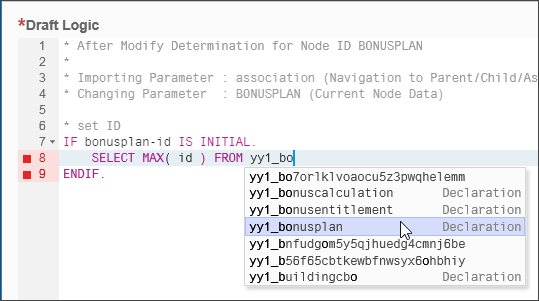
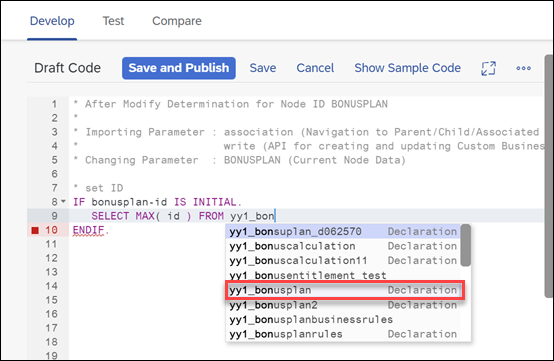
mahor updates to cbo logic

diff --git a/tutorials/abap-extensibility-cbo-logic/abap-extensibility-cbo-logic.md b/tutorials/abap-extensibility-cbo-logic/abap-extensibility-cbo-logic.md
@@ -2,19 +2,15 @@
 parser: v2
 auto_validation: true
 primary_tag: topic>abap-extensibility
-tags: [  tutorial>beginner, topic>abap-extensibility, topic>cloud, products>sap-s-4hana ]
+tags: [  tutorial>beginner, tutorial>license, topic>abap-extensibility, topic>cloud, products>sap-s-4hana ]
 time: 20
 ---
 
 # Implement Logic for a Custom Business Object
-<!-- description --> Control your custom business object application with ABAP logic
+<!-- description -->Control your custom business object application with ABAP logic
 
 ## Prerequisites  
-<<<<<<< HEAD
-- **Authorizations:** Your user needs a business role with business catalog **Extensibility** (ID: `SAP_CORE_BC_EXT`) in your **S/4HANA Cloud** system
-=======
 - **Authorizations:** Your user needs a business role with business catalog **Extensibility – Custom Business Objects** (ID: `SAP_CORE_BC_EXT_CBO`) and **Extensibility - Custom Logic** (ID: `SAP_CORE_BC_EXT_BLE`) in your **S/4HANA Cloud** system
->>>>>>> 59f95048a11e62962d5c8eb49e89b6f027533a25
 
 
 ## You will learn  
@@ -34,25 +30,31 @@ A several tutorials spanning example will show extensibility along custom Bonus 
 
 In the first parts a Manager wants to define business objects **Bonus Plan** for employees. A Bonus Plan is there to save employee specific rules for bonus entitlement.
 ## Additional Information
-- **SAP S/4HANA Cloud Release** (tutorial's last update): 1808
+- **SAP S/4HANA Cloud Release** (tutorial's last update): 2302
 
 ---
 ### Make key field Read-Only
 
 As there was no backend implementation to set the mandatory key field **`ID`** so far, we were forced to set it from the UI to be able to save instances. Now, as we will implement the logic to set the ID in backend and nowhere else, we will set that key field to Read-Only for the UI.
 
-1. Open the business object **Bonus Plan** in Custom Business Objects application
+1. Enter your SAP S/4HANA system's Fiori Launchpad.
 
-2. Start Edit Mode by executing the **Edit Draft** action.
+2. Start typing **Custom Business Objects** in the Launchpad search and open the App from the results.
 
-3. Switch to **Fields** section.
+    ![Custom Business Objects application from search results](FLP_search_resultCBO.png)
+    
+3. Select the business object **Bonus Plan** in Custom Business Objects application
+   
+4. Start Edit Mode by executing the **Edit Draft** action.
 
-4. **Check** the Read-Only box for key field **`ID`**.
+5. Switch to **Fields** section.
+
+6. **Check** the Read-Only box for key field **`ID`**.
 
     ![Check Read-Only box](CBO_checkReadOnly.png)
 
 
-### Enable logic implementation
+### Enable logic development
 
 
 1. Switch to **General Information** section.
@@ -63,109 +65,110 @@ As there was no backend implementation to set the mandatory key field **`ID`** s
 
 3. **Publish** the business object.
 
-Now you are enabled to implement **Determination** logic which is called **after each modification** to a Bonus Plan instance from the UI, as well as **Validation** logic which is called **before each save** of an instance.
-Only in Determination logic you are able to change custom business object data.
-Validation logic is intended to check the business object, decide whether a save can be performed and provide the end user a message with helpful information like successful save or the reason for which a save had to be rejected.  
+Now you are enabled to implement **Determination** logic which is called **after each modification** to a Bonus Plan instance from the UI, as well as **Validation** logic which is called **before each save** of an instance. Only in Determination logic you are able to change custom business object data. Validation logic is intended to check the business object, decide whether a save can be performed and provide the end user a message with helpful information like successful save or the reason for which a save had to be rejected.  
 
 
-### Start logic implementation
+### Implement After Modification logic
 
 For **published** Custom Business Objects **without a Draft version** you can implement logic.
 
 1. Switch to **Logic** section.
+   
     ![Switch to Logic section](CBO_LogicSection.png)
+
 2. Enter the After Modification Event Logic which is a Determination Logic.
+   
     ![Enter After Modification logic](CBO_go2AfterModify.png)
-3. In the logic view you initially see the not editable empty published version.
-Click the **Create Draft** action.
-    ![Create Draft of logic implementation](CBO_AfterModifyCreateDraft.png)
 
-An editable copy of the published version appears left to it. With the **Draft Version** and **Published Version** actions you can decide what coding to see.
+3. Being in the **Develop** section click **Edit** to change the currently published logic which is empty still.
 
-![View Draft and/or Published Version of logic](CBO_AfterModifyDraftOrPublishedVersion.png)
+    ![Create Draft of logic implementation](CBO_logicEdit.png)
 
+4. Determine and set static values:
 
-### Implement After Modification: fix values
+    - Set the key field `ID` if still initial.
 
-Implement After Modification event with following fix value functionality:
+        >**Hint:** Changing Parameter `bonusplan` enables you to read current node data and change it.
+        >
+        >**Hint:** You can read existing Bonus Plan data via the CDS View that is named as the Business Object's Identifier (here: `YY1_BONUSPLAN`).
+        >
+        >**Hint:** With the key combination **CTRL + Space** you can access the very helpful code completion.
+        >
+        >![Code Completion](CBO_logicCodeCompletion.png)
 
-- Set the key field `ID` if still initial.
+        ```ABAP
+        * set ID
+        IF bonusplan-id IS INITIAL.
+            SELECT MAX( id ) FROM yy1_bonusplan INTO @DATA(current_max_id).
+            bonusplan-id = current_max_id + 1.
+        ENDIF.
+        ```
 
-    >**Hint:** Changing Parameter `bonusplan` enables you to read current node data and change it.
-    >
-    **Hint:** You can read existing Bonus Plan data via the CDS View that is named as the Business Object's Identifier (here: `YY1_BONUSPLAN`).
-    >
-    **Hint:** With the key combination **CTRL + Space** you can access the very helpful code completion.
+    - Set the Unit of Measure for the Bonus Percentages to `P1` which is the code for % (percent)
 
-    ![Code Completion](CBO_logicCodeCompletion.png)
+        ```ABAP
+        * set percentage unit
+        bonusplan-lowbonuspercentage_u = bonusplan-highbonuspercentage_u = 'P1'.
+        ```
 
-    <br><br>
+    - Set the Employee Name from the Employee ID
+        >**Hint:** Extensibility offers Helper class `CL_ABAP_CONTEXT_INFO` with method `GET_USER_FORMATTED_NAME` that needs a user ID to return its formatted name
 
-    ```ABAP
-    * set ID
-    IF bonusplan-id IS INITIAL.
-       SELECT MAX( id ) FROM yy1_bonusplan INTO @DATA(current_max_id).
-       bonusplan-id = current_max_id + 1.
-    ENDIF.
-    ```
+        ```ABAP
+        * set Employee Name
+        IF bonusplan-employeeid IS NOT INITIAL.
+            bonusplan-employeename = cl_abap_context_info=>get_user_formatted_name( bonusplan-employeeid ).
+        ENDIF.
+        ```
 
-- Set the Unit of Measure for the Bonus Percentages to `P1` which is the code for % (percent)
+5. Check user input to determine the `isconsistent` property.
 
-    ```ABAP
-    * set percentage unit
-    bonusplan-lowbonuspercentage_u = bonusplan-highbonuspercentage_u = 'P1'.
-    ```
+    - Check that `ValidityStartDate` and `ValidityEndDate` are set and that `ValidityStartDate` is earlier in time than `ValidityEndDate`.
 
-- Determine and set the Employee Name from the Employee ID
-    >**Hint:** Extensibility offers Helper class `CL_ABAP_CONTEXT_INFO` with method `GET_USER_FORMATTED_NAME` that needs a user ID to return its formatted name
+    - Check that Factors and Percentages are set correctly (all > 0, Percentages < 100, `LowBonusAssignmentFactor` < `HighBonusAssignmentFactor`)
 
-    ```ABAP
-    * set Employee Name
-    IF bonusplan-employeeid IS NOT INITIAL.
-       bonusplan-employeename = cl_abap_context_info=>get_user_formatted_name( bonusplan-employeeid ).
-    ENDIF.
-    ```
+    - Check that Employee ID is set
 
+        ```ABAP
+        * consistency check START
+        IF bonusplan-validitystartdate IS INITIAL
+        OR bonusplan-validityenddate IS INITIAL
+        OR bonusplan-validitystartdate GE bonusplan-validityenddate
+        OR bonusplan-lowbonusassignmentfactor IS INITIAL
+        OR bonusplan-highbonusassignmentfactor IS INITIAL
+        OR bonusplan-lowbonuspercentage_v IS INITIAL
+        OR bonusplan-highbonuspercentage_v IS INITIAL
+        OR bonusplan-lowbonuspercentage_v GE 100
+        OR bonusplan-highbonuspercentage_v GE 100
+        OR bonusplan-lowbonusassignmentfactor GE bonusplan-highbonusassignmentfactor
+        OR bonusplan-employeeid IS INITIAL.
+            bonusplan-isconsistent = abap_false.
+        ELSE.
+            bonusplan-isconsistent = abap_true.
+        ENDIF.
+        * consistency check END
+        ```
 
-### Implement After Modification: consistency check
+6. **Save** the logic.
 
-In dependence on following checks, set the `isconsistent` property.
-
-- Check that `ValidityStartDate` and `ValidityEndDate` are set and that `ValidityStartDate` is earlier in time than `ValidityEndDate`.
-- Check that Factors and Percentages are set correctly (all > 0, Percentages < 100, `LowBonusAssignmentFactor` < `HighBonusAssignmentFactor`)
-- Check that Employee ID is set
-
-```ABAP
-* consistency check START
-IF bonusplan-validitystartdate IS INITIAL
- OR bonusplan-validityenddate IS INITIAL
- OR bonusplan-validitystartdate GE bonusplan-validityenddate
- OR bonusplan-lowbonusassignmentfactor IS INITIAL
- OR bonusplan-highbonusassignmentfactor IS INITIAL
- OR bonusplan-lowbonuspercentage_v IS INITIAL
- OR bonusplan-highbonuspercentage_v IS INITIAL
- OR bonusplan-lowbonuspercentage_v GE 100
- OR bonusplan-highbonuspercentage_v GE 100
- OR bonusplan-lowbonusassignmentfactor GE bonusplan-highbonusassignmentfactor
- OR bonusplan-employeeid IS INITIAL.
-    bonusplan-isconsistent = abap_false.
-ELSE.
-    bonusplan-isconsistent = abap_true.
-ENDIF.
-* consistency check END
-```
+    ![Save logic without publishing](CBO_logicSave.png)
 
 
-### Test the logic during development
+Alternatively you can also change the logic in the **Compare** section which allows you to see for example the Draft Version and Latest Published Version next to each other.
 
+![View Draft and/or Published Version of logic](CBO_logicCompareVersions.png)
 
-On top of the coding you can maintain runtime data for the current node structure which represents the data before running the test functionality. This data can also be saved as variant for later usages.
+### Test during development and publish the logic
 
-1. Click the value help to add test data
+In the **Test** section you can test the draft or latest published version of the logic with example runtime data. This data can also be saved as variant for later usages.
 
-    ![Add Test Data](CBO_logicDevAddTestData.png)
+1. Switch to **Test** section
 
-2. Enter following data
+2. Switch from **Importing Parameters** to **Changing Parameters** view, this will add the **Value Out** column.
+
+3. Expand the `BONUSPLAN` node
+
+4. Enter following data to the **Value In** column
 
     | Field	Name | Field Value |
     |------------|-------------|
@@ -179,26 +182,29 @@ On top of the coding you can maintain runtime data for the current node structur
     | `highbonuspercentage_v` | `20` |
     | `employeeid` | `<any>` |
 
-    `employeeid` `<any>` shall be the one of a sales person that created sales orders with a Net Amount of more than 3000.00 EUR in 2016 and that are completed.
+    `employeeid` `<any>` shall be the one of a sales person that created sales orders with a Net Amount of more than 3000.00 EUR in 2017 and that are completed.
 
-    This will look as follows.
+5. Execute the **Test** action
 
-    ![Maintain Test Data](CBO_logicDevMaintainTestData.png)
+6. A message toast appears telling that the test was executed
 
-3. Execute the **Test** action and you can see the node data after your logic was executed.
+7. You can see the node data after your logic was executed in the **Value Out** column.
 
-    ![Execute Test](CBO_logicTest.png)
+    You can see that your logic works as `id`, `*percentage_u` fields and `employename` are filled as expected and `isconsistent` is 'X'.
 
-    You can see that your logic works as `id`, `*percentage_u` fields and `employename` are filled and `isconsistent` is 'X'.
+![Test logic](CBO_logicTest.png)
 
-4. **Publish** the After Modification Logic.
+Go back to **Develop** section and **Publish** the After Modification Logic.
 
 
-### Implement Before Save
+### Implement Before Save logic
 
 1. Being in After Modification logic you can get to Before Save Logic this way:
 
     - Go Back in application
+     
+        ![Go Back in application](CBO_applicationBack.png)
+
     - In Tab "Logic", go to section "Determination and Validation"
 
 2. **Implement** Before Save event with following functionality
@@ -275,7 +281,7 @@ On top of the coding you can maintain runtime data for the current node structur
         * consistency error message  END
         ```
 
-3. **Publish** the Before Save Logic
+3. **Test** and **Publish** the Before Save Logic
 
 
 ### Test via the UI
